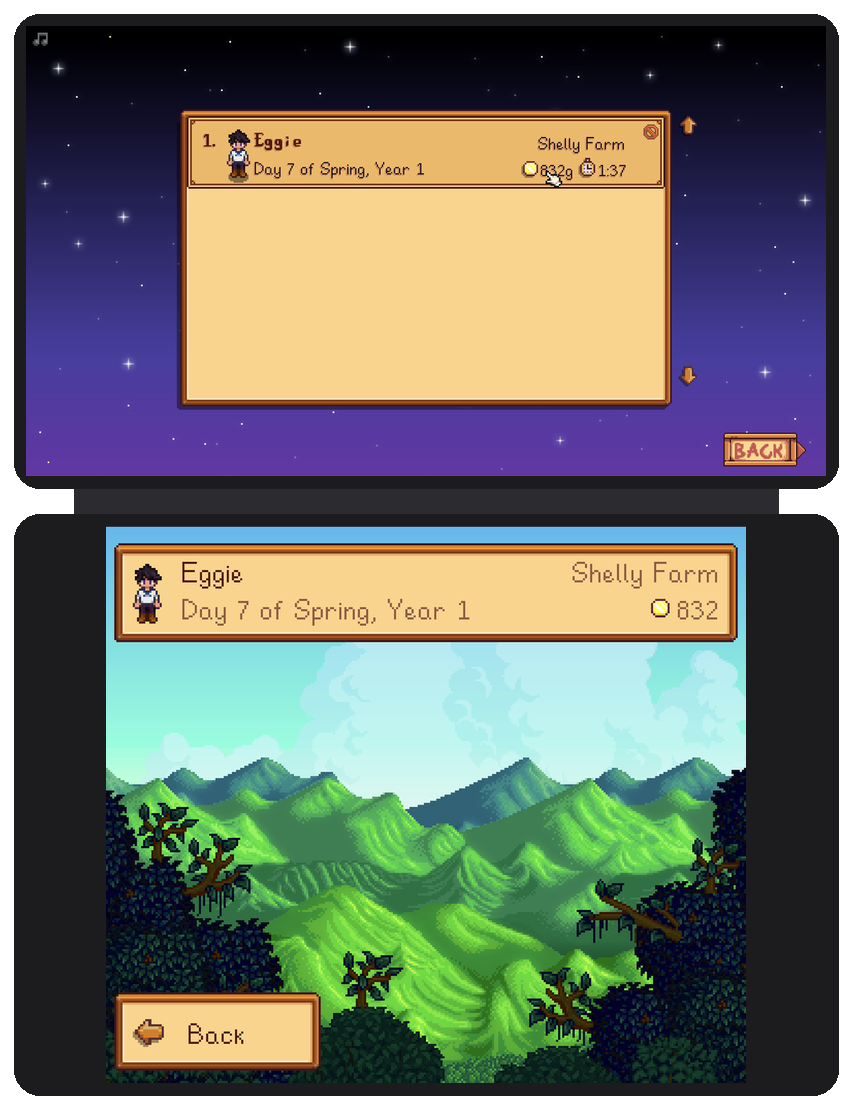
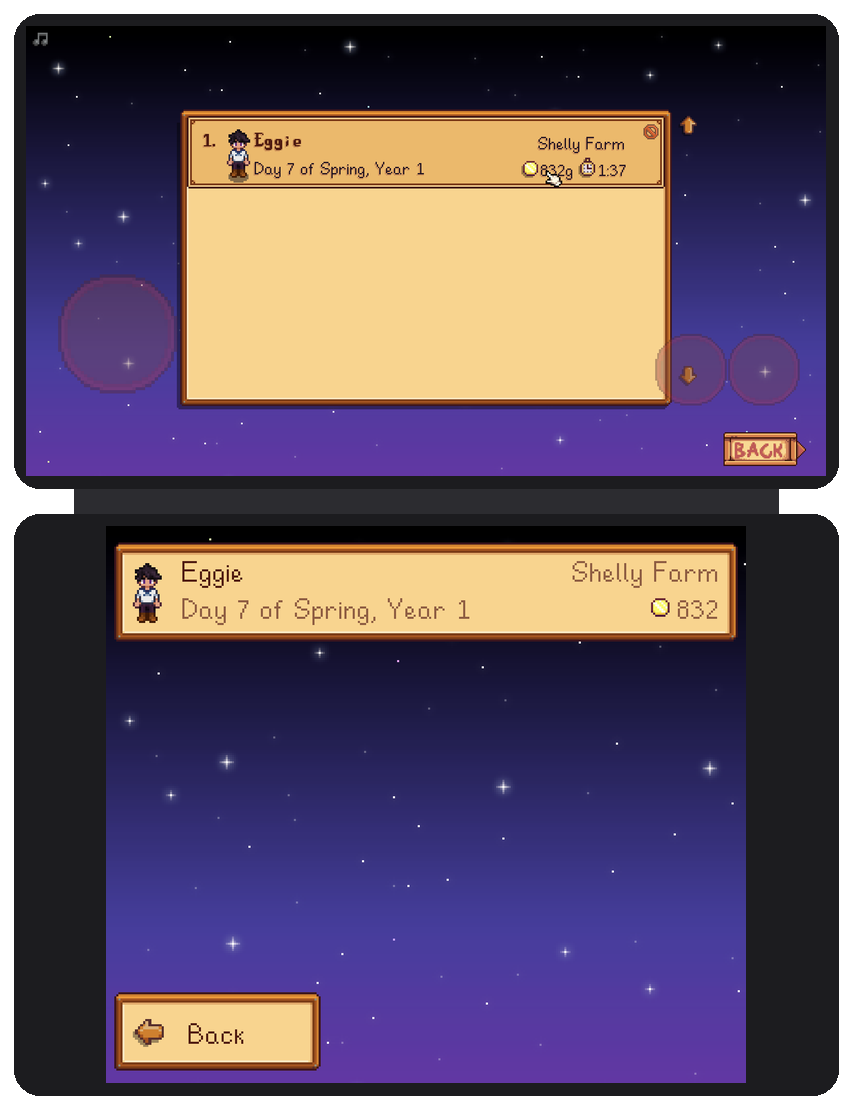
Title background follows the game's camera pan, drifting clouds and night fade
Same layers as the title menu at half scale, offset by its viewportY and
faded to night by its globalXOffset when Load opens (and back on Back);
clouds are read from the menu so they drift in step. The title redraws at
30 fps.

diff --git a/mod/Panels.cs b/mod/Panels.cs
@@ -1612,18 +1612,45 @@ public class Panels
     static Rectangle SaveSlot(int i) => new(8, 16 + i * 104, 604, 96);
     static readonly Rectangle TitleBack = new(8, 452, 200, 76), SaveUp = new(520, 452, 44, 76), SaveDown = new(568, 452, 44, 76);
 
-    /// <summary>The title screen's sky, clouds, hills and trees, drawn at half the game's scale.</summary>
-    static void DrawTitleBackground(SpriteBatch b, TitleMenu tm)
+    /// <summary>The title screen's background at half the game's scale: same layers, same camera pan
+    /// (viewportY) and the same night fade (globalXOffset) the game uses when Load opens.</summary>
+    void DrawTitleBackground(SpriteBatch b, TitleMenu tm)
     {
         int w = ModEntry.W, h = ModEntry.H;
         const float z = 2f;
+        float vy = tm.viewportY / 2f, night = tm.globalXOffset / 1200f;
+        var clouds = tm.cloudsTexture;
+        var big = helper.Reflection.GetField<List<float>>(tm, "bigClouds").GetValue();
+        var small = helper.Reflection.GetField<List<float>>(tm, "smallClouds").GetValue();
+
         b.Draw(Game1.staminaRect, new Rectangle(0, 0, w, h), new Color(64, 136, 248));
-        b.Draw(Game1.mouseCursors, new Rectangle(0, -300 * 2, w, 300 * 2 + h - 120 * 2), new Rectangle(703, 1912, 1, 264), Color.White);
-        b.Draw(tm.cloudsTexture, new Vector2(-100, h - 250 * z), new Rectangle(0, 0, 512, 337), Color.White * 0.6f, 0, Vector2.Zero, z, SpriteEffects.None, 0);
-        b.Draw(Game1.mouseCursors, new Vector2(-30 * z, h - 158 * z), new Rectangle(0, 886, 639, 148), Color.White, 0, Vector2.Zero, z, SpriteEffects.None, 0);
-        b.Draw(Game1.mouseCursors, new Vector2(0, h - 148 * z), new Rectangle(0, 737, 639, 148), Color.White, 0, Vector2.Zero, z, SpriteEffects.None, 0);
-        b.Draw(tm.cloudsTexture, new Vector2(0, h - 142 * z), new Rectangle(0, 554, 165, 142), Color.White, 0, Vector2.Zero, z, SpriteEffects.None, 0);
-        b.Draw(tm.cloudsTexture, new Vector2(w - 122 * z, h - 153 * z), new Rectangle(390, 543, 122, 153), Color.White, 0, Vector2.Zero, z, SpriteEffects.None, 0);
+        b.Draw(Game1.mouseCursors, new Rectangle(0, (int)(-300 * z - vy * 0.66f), w, (int)(300 * z + h - 120 * z)), new Rectangle(703, 1912, 1, 264), Color.White);
+        for (int i = -10; i < w; i += 638)
+            b.Draw(Game1.mouseCursors, new Vector2(i, -360 * z - vy * 0.66f), new Rectangle(0, 1453, 638, 195), Color.White * (1f - night), 0, Vector2.Zero, z, SpriteEffects.None, 0);
+        foreach (float x in big)
+            b.Draw(clouds, new Vector2(x / 2f, h - 250 * z - vy * 0.5f), new Rectangle(0, 0, 512, 337), Color.White * tm.globalCloudAlpha, 0, Vector2.Zero, z, SpriteEffects.None, 0);
+        b.Draw(Game1.mouseCursors, new Vector2(-30 * z, h - 158 * z - vy * 0.66f), new Rectangle(0, 886, 639, 148), Color.White, 0, Vector2.Zero, z, SpriteEffects.None, 0);
+        b.Draw(Game1.mouseCursors, new Vector2(-30 * z + 639 * z, h - 158 * z - vy * 0.66f), new Rectangle(0, 886, 640, 148), Color.White, 0, Vector2.Zero, z, SpriteEffects.None, 0);
+        for (int j = 0; j < small.Count; j++)
+        {
+            var src = j % 3 == 0 ? new Rectangle(152, 447, 123, 55) : j % 3 == 1 ? new Rectangle(0, 471, 149, 66) : new Rectangle(410, 467, 63, 37);
+            b.Draw(clouds, new Vector2(small[j] / 2f, h - 300 * z - j * 12 * z - vy * 0.5f), src, Color.White * tm.globalCloudAlpha, 0, Vector2.Zero, z, SpriteEffects.None, 0);
+        }
+        b.Draw(Game1.mouseCursors, new Vector2(0, h - 148 * z - vy), new Rectangle(0, 737, 639, 148), Color.White, 0, Vector2.Zero, z, SpriteEffects.None, 0);
+        b.Draw(Game1.mouseCursors, new Vector2(639 * z, h - 148 * z - vy), new Rectangle(0, 737, 640, 148), Color.White, 0, Vector2.Zero, z, SpriteEffects.None, 0);
+        b.Draw(clouds, new Vector2(0, h - 142 * z - vy * 2f), new Rectangle(0, 554, 165, 142), Color.White, 0, Vector2.Zero, z, SpriteEffects.None, 0);
+        b.Draw(clouds, new Vector2(w - 122 * z, h - 153 * z - vy * 2f), new Rectangle(390, 543, 122, 153), Color.White, 0, Vector2.Zero, z, SpriteEffects.None, 0);
+
+        // Night: fades in over everything as Load opens, out again on Back.
+        if (night <= 0f) return;
+        b.Draw(Game1.mouseCursors, new Rectangle(0, 0, w, h), new Rectangle(702, 1912, 1, 264), Color.White * night);
+        var flip = SpriteEffects.None;
+        for (int k = 0; k < h; k += 195 * 2)
+        {
+            for (int l = 0; l < w; l += 638 * 2)
+                b.Draw(Game1.mouseCursors, new Vector2(l, k), new Rectangle(0, 1453, 638, 195), Color.White * night, 0, Vector2.Zero, z, flip, 0);
+            flip = flip == SpriteEffects.None ? SpriteEffects.FlipHorizontally : SpriteEffects.None;
+        }
     }
 
     /// <summary>Runs every tick: the buttons live on the bottom screen, so the top shows just the title.</summary>
@@ -1782,8 +1809,8 @@ public class Panels
         }
     }
 
-    bool TitleAnimating => !Context.IsWorldReady && Game1.activeClickableMenu is TitleMenu tm && TitleMenu.subMenu == null
-        && (!TitleReady(tm) || titleShown < 4 || Game1.ticks - titleShownAt[3] < 12);
+    // The title is always moving (clouds drift, the camera pans, night fades), so redraw it smoothly.
+    static bool TitleAnimating => !Context.IsWorldReady && Game1.activeClickableMenu is TitleMenu;
 
     // Bottom-screen title buttons revealed so far, and the tick each appeared (for the pop-in).
     int titleShown;
